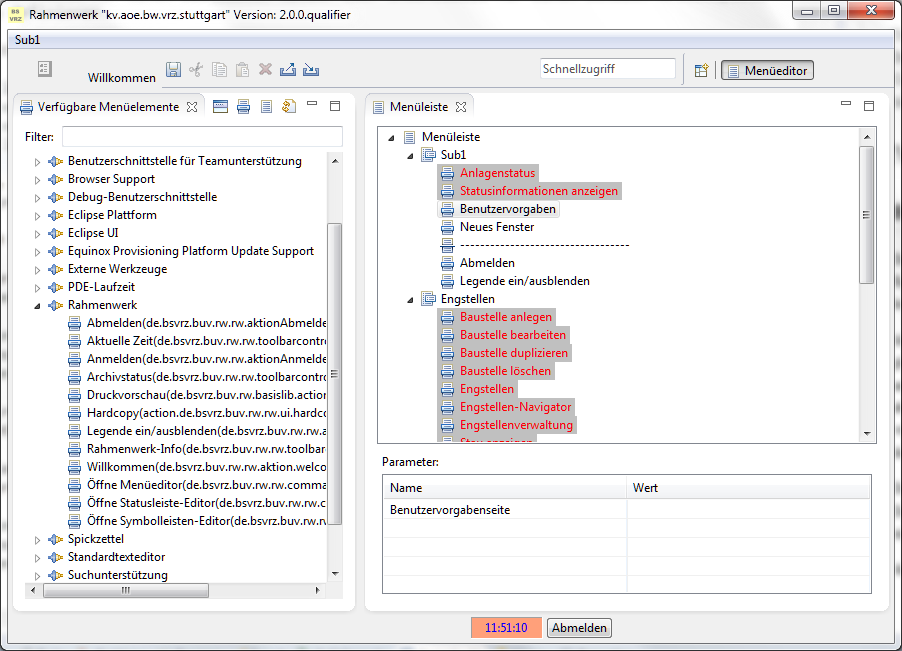
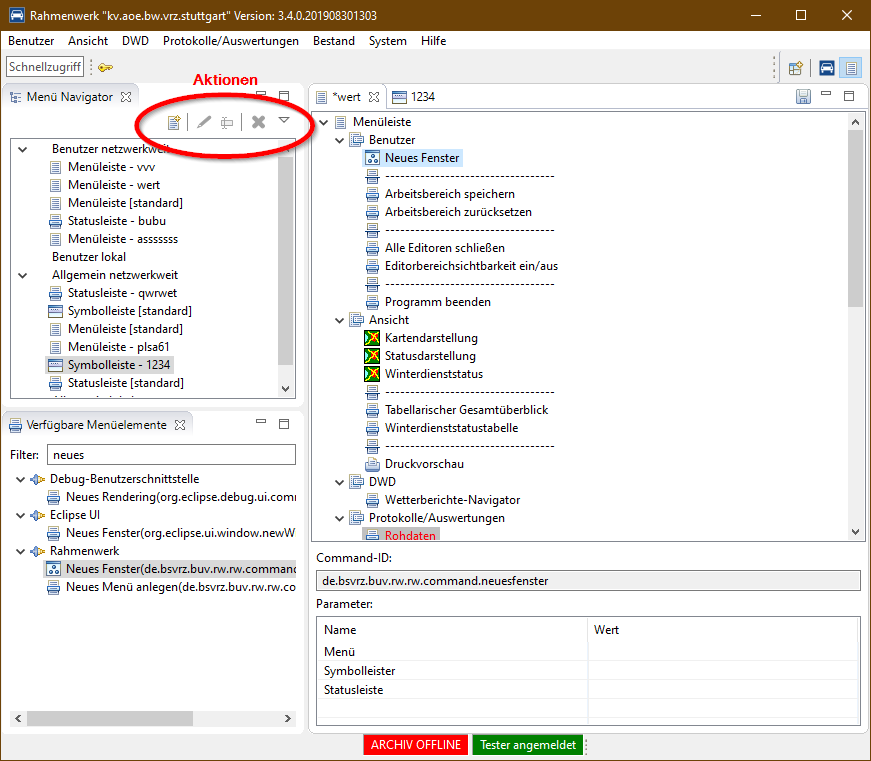
Dokumentation des Menüeditors aktualisiert

Changed region(s): [[0.0, 0.0, 1.0, 1.0], [0.682, 0.7988, 0.713, 0.8295]]

diff --git a/README.md b/README.md
@@ -1,23 +1,19 @@
-**Die Artikel wurden in das Github-Page-Projekt [https://github.com/upeuker/nerz-posts](https://github.com/upeuker/nerz-posts) übernommen, um eine einfachere Pflege-Erweiterung und Veröffentlichung zu ermöglichen.**
-
-**Die Seite ist unter [https://upeuker.github.io/nerz-posts/](https://upeuker.github.io/nerz-posts/) erreichbar.**
-
 
 bsvrz-rahmenwerk-doc
 ====================
 
-Artikel und Beiträge zur Dokumentation des NERZ-Rahmenwerk 2.0
+Artikel und Beiträge zur Dokumentation des NERZ-Rahmenwerk 3.4
 
 Die Quellen der Artikel finden sich auf Github unter den folgenden Links:
 
-- [Services](https://github.com/bitctrl/bsvrz-rahmenwerk-doc/blob/master/articles/rw2-services.md)
-- [Einstellungen](https://github.com/bitctrl/bsvrz-rahmenwerk-doc/blob/master/articles/rw2-einstellungen.md)
-- [Berechtigungen](https://github.com/bitctrl/bsvrz-rahmenwerk-doc/blob/master/articles/rw2-rechte.md)
-- [Anmeldung](https://github.com/bitctrl/bsvrz-rahmenwerk-doc/blob/master/articles/rw2-login.md)
-- [Urlasserdialog](https://github.com/bitctrl/bsvrz-rahmenwerk-doc/blob/master/articles/rw2-urlasserdialog.md)
-- [Menüs und Toolbars](https://github.com/bitctrl/bsvrz-rahmenwerk-doc/blob/master/articles/rw2-menue.md)
-- [Welcome](https://github.com/bitctrl/bsvrz-rahmenwerk-doc/blob/master/articles/rw2-welcome.md)
-- [Informationsanzeige](https://github.com/bitctrl/bsvrz-rahmenwerk-doc/blob/master/articles/rw2-info.md)
-- [Standardlegende](https://github.com/bitctrl/bsvrz-rahmenwerk-doc/blob/master/articles/rw2-legende.md)
-- [Simulation](https://github.com/bitctrl/bsvrz-rahmenwerk-doc/blob/master/articles/rw2-simulation.md)
-- [Migrationshinweise](https://github.com/bitctrl/bsvrz-rahmenwerk-doc/blob/master/articles/rw2-migration.md)
+- [Services](https://github.com/bitctrl/bsvrz-rahmenwerk-doc/blob/master/articles/rw-services.md)
+- [Einstellungen](https://github.com/bitctrl/bsvrz-rahmenwerk-doc/blob/master/articles/rw-einstellungen.md)
+- [Berechtigungen](https://github.com/bitctrl/bsvrz-rahmenwerk-doc/blob/master/articles/rw-rechte.md)
+- [Anmeldung](https://github.com/bitctrl/bsvrz-rahmenwerk-doc/blob/master/articles/rw-login.md)
+- [Urlasserdialog](https://github.com/bitctrl/bsvrz-rahmenwerk-doc/blob/master/articles/rw-urlasserdialog.md)
+- [Menüs und Toolbars](https://github.com/bitctrl/bsvrz-rahmenwerk-doc/blob/master/articles/rw-menue.md)
+- [Welcome](https://github.com/bitctrl/bsvrz-rahmenwerk-doc/blob/master/articles/rw-welcome.md)
+- [Informationsanzeige](https://github.com/bitctrl/bsvrz-rahmenwerk-doc/blob/master/articles/rw-info.md)
+- [Standardlegende](https://github.com/bitctrl/bsvrz-rahmenwerk-doc/blob/master/articles/rw-legende.md)
+- [Simulation](https://github.com/bitctrl/bsvrz-rahmenwerk-doc/blob/master/articles/rw-simulation.md)
+- [Migrationshinweise](https://github.com/bitctrl/bsvrz-rahmenwerk-doc/blob/master/articles/rw-migration.md)

diff --git a/articles/rw-menue.md b/articles/rw-menue.md
@@ -36,12 +36,11 @@ Menüs verfügbaren Elementen und dem Bereich für Editoren besteht.
 
 ![Menü-Editor-Perspektive](../assets/menu_editor.png)
 
-Ein Editor wird über die jeweilige Schaltfläche (Menü, Toolbar, Statusleiste) in der 
-Ansicht der verfügbaren Elemente geöffnet. Dabei erfolgt die Abfrage welches Menü aus 
-den Einstellungen geladen werden soll.
+Ein neues Menü wir mit der Aktion "Neues Menü anlegen" im Menü Navigator angelegt. Es öffnet sich ein Assistent zum Anlegen eines neuen Menüs.
 
-Wird beim Betätigen der Schaltflächen zum Öffnen eines Editors gleichzeitig die Strg-Taste
-betätigt, wird ein leerer Editor geöffnet.
+Ein Editor wird über die Aktion "Menü bearbeiten" im Menü Navigator Elemente geöffnet.
+
+Auch der Export und der Import von Menüs wird mit den entsprechenden Aktionen im Menü Navigator realisiert. 
 
 Die gewünschten Elemente können wie gewohnt per Drag & Drop in das Menü eingefügt und 
 dort angeordnet werden. Untermenüs werden per Kontextmenü-Funktion im Editor erzeugt.
@@ -117,7 +116,7 @@ implementieren und als *control* in einem ExtensionPoint vom Typ
 
 Folgende Statusleistenelemente sind bereits im Rahmenwerk enthalten:
  - Aktuelle Zeit
- - ![Rahmenwerk-Info](rw2-info.md)
+ - ![Rahmenwerk-Info](rw-info.md)
  - Archivstatus
  - Benutzerstatus
  

diff --git a/SUMMARY.md b/SUMMARY.md
@@ -1,13 +1,13 @@
 # Inhalt
 
-* [Services](articles/rw2-services.md)
-* [Einstellungen](articles/rw2-einstellungen.md)
-* [Berechtigungen](articles/rw2-rechte.md)
-* [Anmeldung](articles/rw2-login.md)
-* [Urlasserdialog](articles/rw2-urlasserdialog.md)
-* [Menüs und Toolbars](articles/rw2-menue.md)
-* [Welcome](articles/rw2-welcome.md)
-* [Informationsanzeige](articles/rw2-info.md)
-* [Standardlegende](articles/rw2-legende.md)
-* [Simulation](articles/rw2-simulation.md)
-* [Migrationshinweise](articles/rw2-migration.md)
+* [Services](articles/rw-services.md)
+* [Einstellungen](articles/rw-einstellungen.md)
+* [Berechtigungen](articles/rw-rechte.md)
+* [Anmeldung](articles/rw-login.md)
+* [Urlasserdialog](articles/rw-urlasserdialog.md)
+* [Menüs und Toolbars](articles/rw-menue.md)
+* [Welcome](articles/rw-welcome.md)
+* [Informationsanzeige](articles/rw-info.md)
+* [Standardlegende](articles/rw-legende.md)
+* [Simulation](articles/rw-simulation.md)
+* [Migrationshinweise](articles/rw-migration.md)

diff --git a/articles/rahmenwerk.md b/articles/rahmenwerk.md
@@ -1,0 +1,30 @@
+Title:   Rahmenwerk 3.4 - Übersicht  
+Author:  U. Peuker  
+Date:    August 30, 2019  
+Comment: Dokumentation der Features des Rahmenwerks in Version 3.4
+
+# Rahmenwerk 3.4
+
+- Services
+- Einstellungen
+- Berechtigungen
+- Anmeldung
+- Urlasser
+- Menüs und Symbolleisten
+- Willkommen-Bildschirm
+- Statische Informationen
+- Standard-Legende
+- Simulation
+- Hinweise zur Migration
+
+<<[rw-services.md]
+<<[rw-einstellungen.md]
+<<[rw-rechte.md]
+<<[rw-login.md]
+<<[rw-urlasserdialog.md]
+<<[rw-menue.md]
+<<[rw-welcome.md]
+<<[rw-info.md]
+<<[rw-legende.md]
+<<[rw-simulation.md]
+<<[rw-migration.md]
